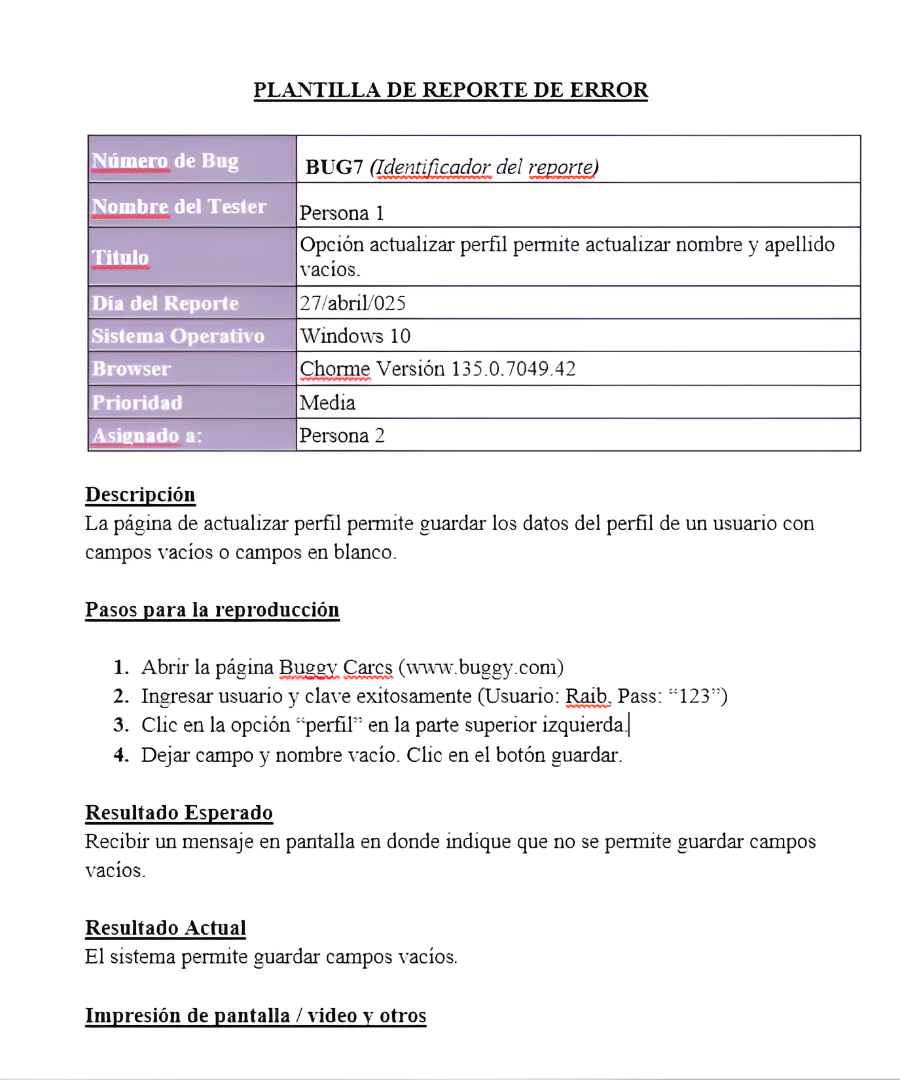
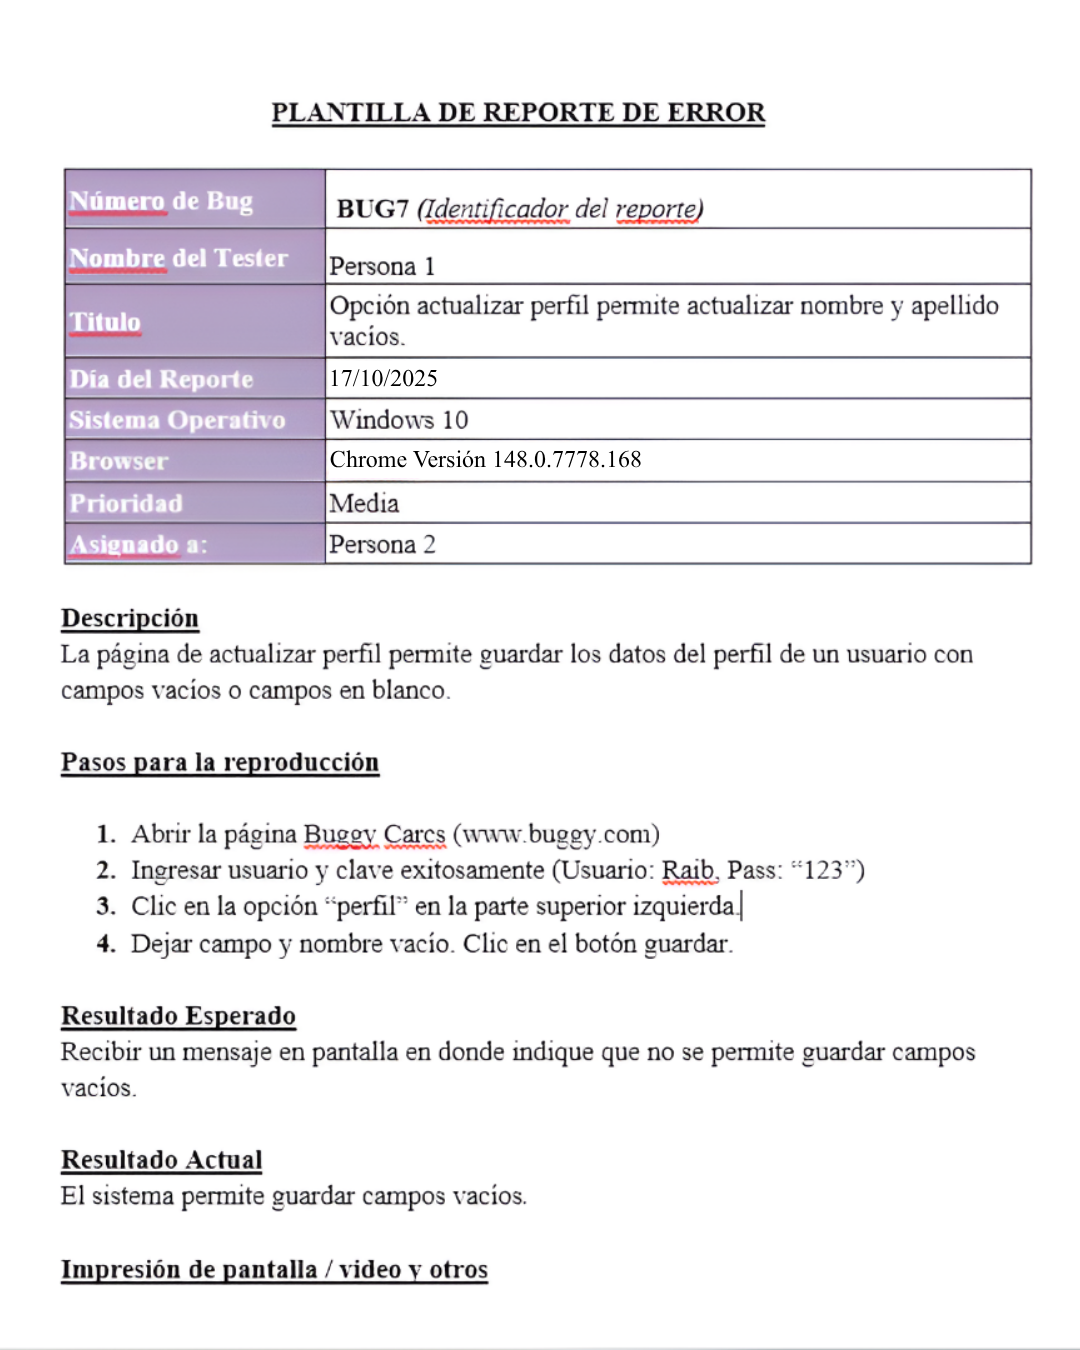
actualizacion diseño

diff --git a/paginas/diseños.html b/paginas/diseños.html
@@ -77,6 +77,48 @@
                style="max-width: 300px; margin: auto; display: block; border-radius: 8px;" />
         </div>
       </div>
+
+      <div class="card">
+        <div class="card-content" style="text-align: center;">
+          <h4>Post informativo</h4>
+          <p>Instagram Story Design – Artículo.</p>
+          <img src="../imagenes/disenos/historiamt1.png" 
+               alt="Diseño 7" 
+               class="project-image" 
+               width="100%" 
+               height="auto"
+               style="max-width: 300px; margin: auto; display: block; border-radius: 8px;" />
+        </div>
+      </div>
+
+      <div class="card">
+        <div class="card-content" style="text-align: center;">
+          <h4>Post informativo</h4>
+          <p>Instagram Story Design – Alto Ahí.</p>
+          <img src="../imagenes/disenos/historiamt0.png" 
+               alt="Diseño 7" 
+               class="project-image" 
+               width="100%" 
+               height="auto"
+               style="max-width: 300px; margin: auto; display: block; border-radius: 8px;" />
+        </div>
+      </div>
+
+      <div class="card">
+        <div class="card-content" style="text-align: center;">
+          <h4>Post informativo</h4>
+          <p>Instagram Story Design – Servicio.</p>
+          <img src="../imagenes/disenos/historiamt2.png" 
+               alt="Diseño 7" 
+               class="project-image" 
+               width="100%" 
+               height="auto"
+               style="max-width: 300px; margin: auto; display: block; border-radius: 8px;" />
+        </div>
+      </div>
+
+
+
     </div>
 
 </div>
@@ -87,7 +129,7 @@
       <div class="card">
         <div class="card-content" style="text-align: center;">
           <h4>Diseño para historia.</h4>
-          <p>El objetivo es comunicar de manera clara y visual el horario de atención.</p>
+          <p>Publicación del horario <br>de atención.</p>
           <img src="../imagenes/disenos/odonto1.png" 
                alt="Post adaptado" 
                class="project-image" 
@@ -100,7 +142,7 @@
       <div class="card">
         <div class="card-content" style="text-align: center;">
           <h4>Diseño para historia.</h4>
-          <p>Publicación promocional</p>
+          <p>El objetivo es comunicar de manera clara una información al público.</p>
           <video src="../imagenes/disenos/odonto.mp4" 
                 class="project-image" 
                 controls 
@@ -114,7 +156,7 @@
       <div class="card">
         <div class="card-content" style="text-align: center;">
           <h4>Diseño para post.</h4>
-          <p>El objetivo es comunicar de manera clara y visual los servicios de la clínica.</p>
+          <p>El objetivo es comunicar de manera clara y visual que la clínica está abierta.</p>
           <img src="../imagenes/disenos/odonto2.png" 
                alt="Post adaptado" 
                class="project-image" 
